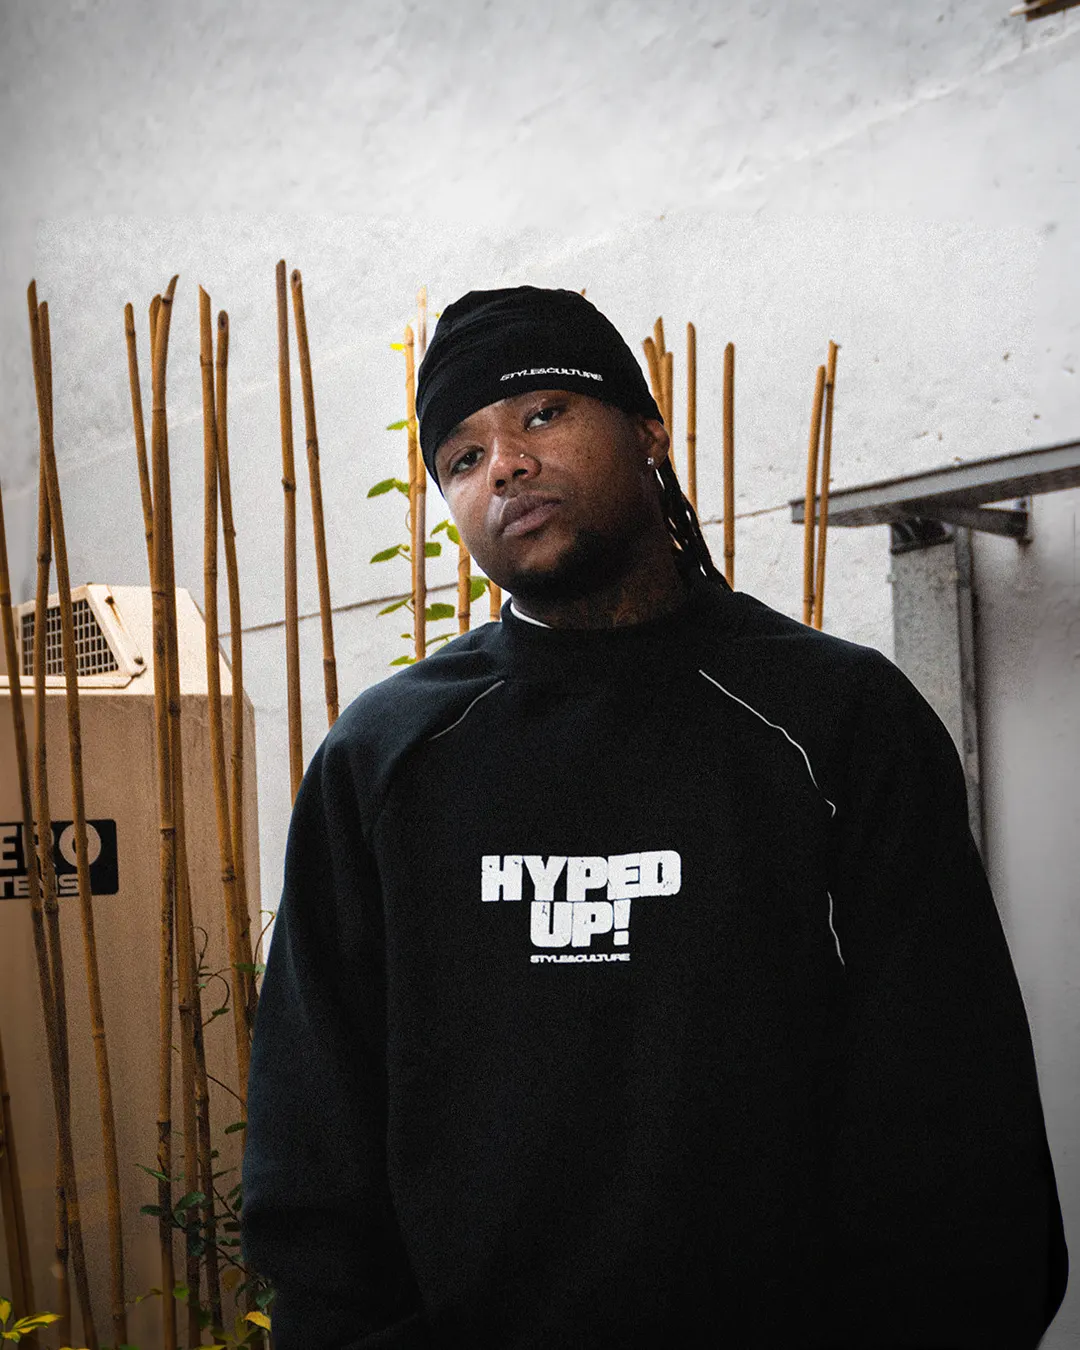
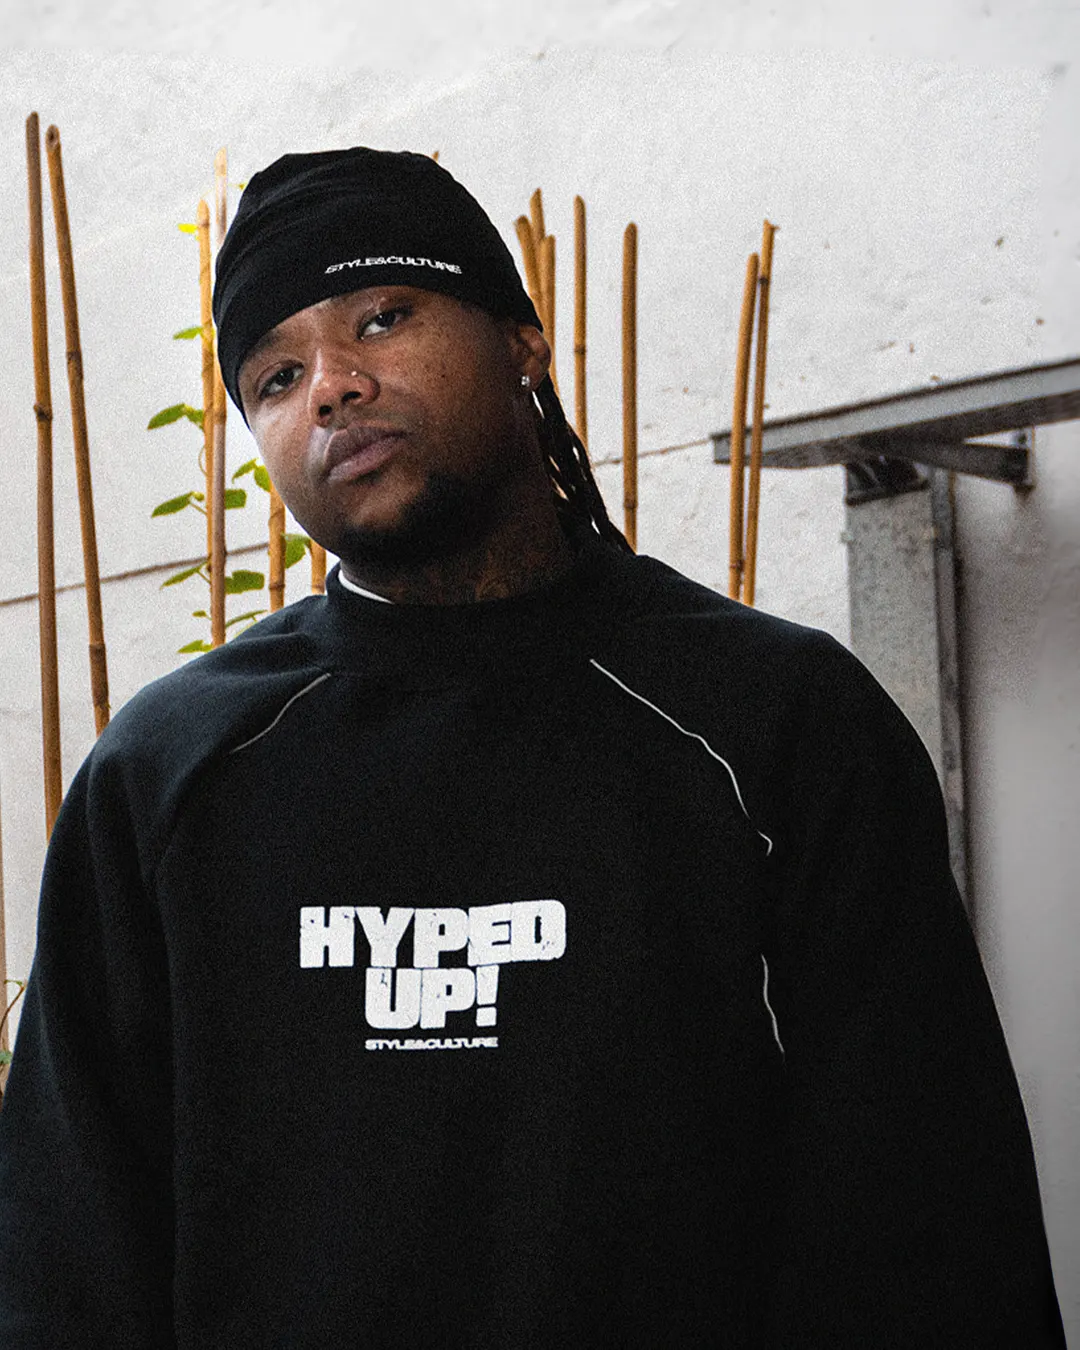
feat(home): Visto en suma a Mir Nicolás y recentra la foto de Polima
- Mir Nicolás (@mirnicolas.vyg), 2 fotos del shoot de La Ciudad del Pop. Su
  merch no está en Woo: el modal lo aclara y linkea a /lookbook-mir (campo
  opcional `link` para posts sin prendas).
- Polima: recorte más cerrado y centrado.

diff --git a/next-app/data/vistoEn.ts b/next-app/data/vistoEn.ts
@@ -10,7 +10,7 @@
  *
  * Fotos: 1080x1350 (4:5) en public/visto-en/, exportadas de las selecciones
  * aprobadas en `Redes & Pauta` (NICKI NICOLE/POST, CEROUNNO/FOTOS CEROUNNO/
- * SELECCION POST, FRO ART MEDIA/export, POLIMA). El orden alterna artistas a propósito.
+ * SELECCION POST, FRO ART MEDIA/export, POLIMA, MIR NICOLAS). El orden alterna artistas a propósito.
  *
  * No se etiqueta a fotógrafos ni a modelos, solo al artista.
  */
@@ -22,6 +22,8 @@ export interface VistoEnPost {
   ig: string[];
   /** Línea corta debajo del nombre en el modal (dónde o cuándo). */
   contexto?: string;
+  /** Link alternativo cuando sus prendas ya no están (ej. el lookbook de la colab). */
+  link?: { href: string; label: string };
   alt: string;
   slugs: string[];
 }
@@ -38,9 +40,12 @@ export const VISTO_EN: VistoEnPost[] = [
   { id: 'polima-01', artista: 'Polima Westcoast', ig: ['richboywest'], alt: 'Polima Westcoast con el Crewneck Hyped Up! Black', slugs: ['crewneck-hyped-up-black'] },
   { id: 'cerounno-01', artista: 'Cerounno', ig: ['cerounno'], alt: 'Cerounno con el Half-Zip Polo Black', slugs: CEROUNNO },
   { id: 'fro-f023', artista: 'FRO!', ig: ['frozouda'], contexto: 'Prueba de sonido de ART MEDIA', alt: 'FRO! con el conjunto camo en la prueba de sonido', slugs: CAMO },
+  // Mir Nicolás: merch de La Ciudad del Pop (StyleRap&Culture), no está en Woo.
+  { id: 'mir-04470', artista: 'Mir Nicolás', ig: ['mirnicolas.vyg'], contexto: 'La Ciudad del Pop', link: { href: '/lookbook-mir', label: 'Ver el lookbook' }, alt: 'Mir Nicolás con la remera de La Ciudad del Pop', slugs: [] },
   { id: 'nicki-selfie', artista: 'Nicki Nicole', ig: ['nicki.nicole'], alt: 'Selfie de Nicki Nicole con el hoodie Grey HStars', slugs: ['hoodie-grey-hstars'] },
   { id: 'cerounno-05', artista: 'Cerounno', ig: ['cerounno'], alt: 'Cerounno con el Half-Zip Polo Black', slugs: CEROUNNO },
   { id: 'fro-f025', artista: 'FRO!', ig: ['frozouda'], contexto: 'Prueba de sonido de ART MEDIA', alt: 'FRO! sentado en el pasto con el conjunto camo', slugs: CAMO },
+  { id: 'mir-04544', artista: 'Mir Nicolás', ig: ['mirnicolas.vyg'], contexto: 'La Ciudad del Pop', link: { href: '/lookbook-mir', label: 'Ver el lookbook' }, alt: 'Mir Nicolás y amigos con el merch de La Ciudad del Pop', slugs: [] },
   { id: 'nicki-tini', artista: 'Nicki Nicole y Tini', ig: ['nicki.nicole', 'tinistoessel'], alt: 'Nicki Nicole con la Mesh Camo Blue junto a Tini', slugs: ['mesh-camo-blue-tee'] },
   { id: 'cerounno-07', artista: 'Cerounno', ig: ['cerounno'], alt: 'Cerounno de perfil con el Half-Zip Polo Black y el SweatPant Black HStars', slugs: CEROUNNO },
   { id: 'fro-f012', artista: 'FRO!', ig: ['frozouda'], contexto: 'Prueba de sonido de ART MEDIA', alt: 'FRO! con el Zip Hoodie Camo', slugs: CAMO },

diff --git a/next-app/components/VistoEn.tsx b/next-app/components/VistoEn.tsx
@@ -209,6 +209,9 @@ function PostModal({ post, prendas, onClose, onPrev, onNext }: ModalProps) {
           {prendas.length === 0 && (
             <p className="text-[12px] text-foreground/60 leading-snug">Lo que lleva en esta foto ya no está disponible.</p>
           )}
+          {post.link && (
+            <a href={post.link.href} className="self-start text-[12px] font-semibold underline underline-offset-4">{post.link.label}</a>
+          )}
           <ul className="flex flex-col gap-1.5">
             {prendas.map((p) => (
               <li key={p.slug}>
